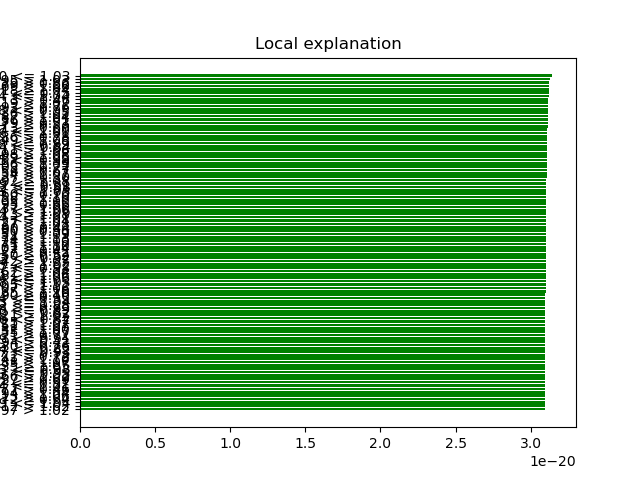
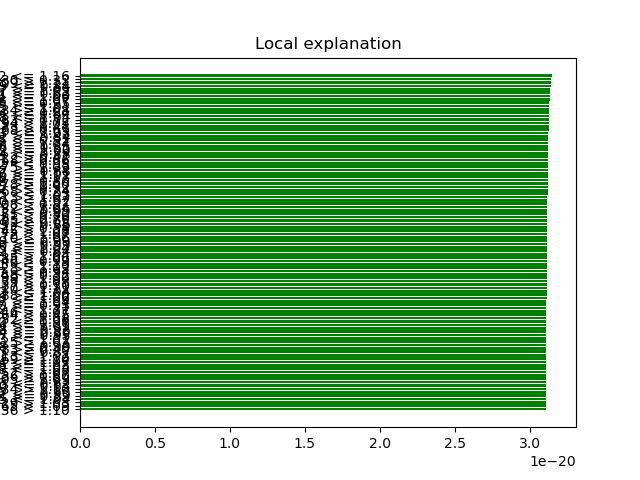
Parallelization implemented to compute the explainer and explanations

diff --git a/xAI/lime/kw_20_explanation_AE.html b/xAI/lime/kw_20_explanation_AE.html
@@ -37089,25 +37089,25 @@
 /***/ })
 /******/ ]);
 //# sourceMappingURL=bundle.js.map </script></head><body>
-        <div class="lime top_div" id="top_div693M1R41W04F4BX"></div>
+        <div class="lime top_div" id="top_divPRYQO4W5LQ1C0EL"></div>
         
         <script>
-        var top_div = d3.select('#top_div693M1R41W04F4BX').classed('lime top_div', true);
+        var top_div = d3.select('#top_divPRYQO4W5LQ1C0EL').classed('lime top_div', true);
         
         
                     var pp_div = top_div.append('div')
                                         .classed('lime predicted_value', true);
                     var pp_svg = pp_div.append('svg').style('width', '100%');
-                    var pp = new lime.PredictedValue(pp_svg, 41.43935775756836, 0.4013487696647644, 41.43935775756836);
+                    var pp = new lime.PredictedValue(pp_svg, 41.43935775756836, 0.3981606662273407, 41.43935775756836);
                     
         var exp_div;
             var exp = new lime.Explanation(["negative", "positive"]);
         
             exp_div = top_div.append('div').classed('lime explanation', true);
-            exp.show([["1.08 < 3032 <= 1.16", 3.151411732195672e-20], ["130 > 0.32", 3.143531690930084e-20], ["2109 > 1.11", 3.143413657675849e-20], ["999 <= 0.84", 3.143007359665648e-20], ["1.07 < 3197 <= 1.09", 3.137833626205386e-20], ["1001 <= 0.83", 3.1374821812128124e-20], ["1.03 < 3221 <= 1.06", 3.135704353972534e-20], ["1.04 < 3263 <= 1.07", 3.132406887577402e-20], ["0.90 < 815 <= 0.95", 3.1321705354703385e-20], ["3085 <= 1.01", 3.131619492025134e-20], ["2434 > 1.08", 3.130609807066562e-20], ["0.79 < 794 <= 0.84", 3.1301513931911596e-20], ["1608 <= 1.04", 3.128519091161721e-20], ["583 > 0.72", 3.1284768980507366e-20], ["3094 > 1.05", 3.127799652982868e-20], ["33 > 0.41", 3.1275653050442745e-20], ["468 > 0.69", 3.1264082182455615e-20], ["3233 <= 1.03", 3.124401881998194e-20], ["901 <= 0.84", 3.123974303444091e-20], ["0.87 < 1305 <= 0.91", 3.123900062568068e-20], ["1.01 < 3366 <= 1.04", 3.1234530421373096e-20], ["1066 <= 0.85", 3.123178005370284e-20], ["3572 <= 1.00", 3.123064765698015e-20], ["1154 <= 0.88", 3.122822284527272e-20], ["222 > 0.47", 3.122474745138044e-20], ["458 > 0.66", 3.121959791963295e-20], ["0.94 < 1122 <= 0.98", 3.121107077573404e-20], ["2475 > 1.03", 3.1210788865906096e-20], ["1087 <= 0.88", 3.1206613876917007e-20], ["1666 <= 1.01", 3.120255793379547e-20], ["1.06 < 3018 <= 1.17", 3.1202459412497515e-20], ["0.76 < 768 <= 0.80", 3.1199066131562616e-20], ["1578 > 1.00", 3.1197206500819e-20], ["0.87 < 825 <= 0.92", 3.119464628729898e-20], ["268 > 0.24", 3.119355060870413e-20], ["3325 <= 1.03", 3.119011212849675e-20], ["2713 > 1.07", 3.1188390057264433e-20], ["3120 <= 1.02", 3.1181870255023005e-20], ["1508 > 0.87", 3.117700148346298e-20], ["3532 > 1.04", 3.1175362945575484e-20], ["3581 <= 0.99", 3.1172526307717464e-20], ["671 > 0.80", 3.1172058274010894e-20], ["683 > 0.70", 3.1171354540900223e-20], ["685 > 0.65", 3.117042597187892e-20], ["879 <= 0.86", 3.116986624656751e-20], ["122 > 0.38", 3.116615566487045e-20], ["2245 > 1.08", 3.116504281252621e-20], ["2972 > 1.07", 3.116386886515956e-20], ["2310 > 1.06", 3.116363870008225e-20], ["3559 <= 0.99", 3.1161192902447714e-20], ["3580 <= 0.99", 3.116115594715172e-20], ["1.02 < 3135 <= 1.04", 3.115906921601232e-20], ["1012 <= 0.84", 3.115826819033717e-20], ["2513 > 1.04", 3.115317258550061e-20], ["2285 > 1.06", 3.1150622829175846e-20], ["3446 > 0.99", 3.114609396996373e-20], ["1.08 < 2921 <= 1.10", 3.1143050086476475e-20], ["1928 > 1.03", 3.1140789129115894e-20], ["0.88 < 787 <= 0.94", 3.113904482754047e-20], ["48 > 0.32", 3.113241714324736e-20], ["3499 > 1.00", 3.1131949661739484e-20], ["1959 > 1.03", 3.113092087400479e-20], ["37 > 0.30", 3.112792451609511e-20], ["2110 > 1.11", 3.112678240577264e-20], ["3213 <= 1.04", 3.1125785248532606e-20], ["3488 > 1.00", 3.112572918007122e-20], ["1.03 < 3240 <= 1.06", 3.112252780434383e-20], ["1.01 < 3357 <= 1.04", 3.1119941117419015e-20], ["0.88 < 980 <= 0.93", 3.111763531267703e-20], ["1.03 < 2862 <= 1.21", 3.1117167089284075e-20], ["2946 > 1.07", 3.111705663158061e-20], ["164 > 0.45", 3.111536210849571e-20], ["2952 > 1.08", 3.111507943118054e-20], ["0.96 < 3400 <= 0.98", 3.111420635160439e-20], ["0.98 < 3414 <= 1.01", 3.1112368729542606e-20], ["1518 <= 0.92", 3.111122111001753e-20], ["784 <= 0.80", 3.110778298393133e-20], ["1627 <= 0.93", 3.110739748589127e-20], ["0.98 < 3473 <= 1.01", 3.110623001291488e-20], ["3525 > 1.03", 3.110600723226064e-20], ["1058 <= 0.90", 3.110543033491315e-20], ["183 > 0.40", 3.110027617052812e-20], ["937 <= 0.87", 3.1098028988705884e-20], ["2013 > 1.02", 3.109699552225025e-20], ["2269 > 1.10", 3.1096583014382033e-20], ["1.05 < 2944 <= 1.07", 3.109468929726847e-20], ["1.01 < 3379 <= 1.03", 3.109407573650955e-20], ["1.07 < 2788 <= 1.08", 3.109291731729473e-20], ["2752 > 1.07", 3.109275359929593e-20], ["636 > 0.80", 3.109242759097667e-20], ["2903 > 1.09", 3.1089050320644815e-20], ["1173 <= 0.82", 3.108863004258506e-20], ["1430 <= 0.83", 3.1085720041387e-20], ["2034 > 1.10", 3.1084062077769864e-20], ["1092 <= 0.90", 3.1081596978281223e-20], ["1091 <= 0.89", 3.108124268678974e-20], ["3205 <= 1.04", 3.107968459241411e-20], ["3529 > 1.03", 3.107964005799557e-20], ["2265 > 1.09", 3.107952900699872e-20], ["2036 > 1.10", 3.107717212716936e-20]], 1, exp_div);
+            exp.show([["3702 <= 1.04", 0.5021782324285443], ["1266 <= 0.92", 0.4936909464056362], ["0.88 < 1184 <= 0.92", 0.49226597609205136], ["3329 <= 1.03", 0.4880003993276654], ["672 > 0.80", 0.4786419378374837], ["172 > 0.42", 0.47595939169777723], ["1.03 < 3247 <= 1.05", 0.47566961560214666], ["0.88 < 1219 <= 0.91", 0.47279007569125486], ["1.04 < 3269 <= 1.07", 0.4673059741511945], ["1057 <= 0.90", 0.4638433304812303], ["2357 > 1.11", 0.46310283129285845], ["1123 <= 0.93", 0.4514799785231599], ["1.01 < 3659 <= 1.04", 0.4477903831817919], ["0.84 < 982 <= 0.88", 0.4471753753088741], ["1904 > 1.02", 0.4452560038715307], ["2406 > 1.08", 0.4415739787460963], ["532 > 0.71", 0.4354413948770992], ["565 > 0.77", 0.43275286952533976], ["1.06 < 3216 <= 1.08", 0.4320610908018941], ["2887 <= 1.09", 0.4293731268749042], ["1518 <= 0.92", 0.4279542235212195], ["0.91 < 1037 <= 0.96", 0.4268693106588472], ["246 > 0.45", 0.4234512022500114], ["2020 > 1.09", 0.4232077776665919], ["2579 > 1.04", 0.42226396644292974], ["3261 <= 1.04", 0.4212133741041045], ["79 > 0.51", 0.4207482102573732], ["3626 <= 1.01", 0.41752190452802], ["3744 <= 1.04", 0.4173652687754923], ["2168 > 1.08", 0.41602435268188614], ["0.93 < 1576 <= 0.96", 0.41458572743509725], ["876 <= 0.88", 0.41190030489705265], ["1129 <= 0.91", 0.41130397582290157], ["3051 <= 0.99", 0.4102630355263475], ["1709 <= 0.93", 0.4095789801932695], ["937 <= 0.87", 0.40869058888320925], ["503 > 0.65", 0.4086783389540401], ["2221 > 1.07", 0.4050085457993009], ["3487 > 1.00", 0.4037468973908977], ["785 <= 0.82", 0.4001860918029761], ["0.69 < 547 <= 0.76", 0.39938630647100587], ["1229 <= 0.94", 0.39884217484408807], ["3768 <= 1.05", 0.3985398506456866], ["28 > 0.70", 0.39790083736824755], ["297 > 0.64", 0.39576649047831003], ["1.06 < 2930 <= 1.08", 0.39443358233447096], ["2288 > 1.07", 0.39394797211519367], ["2960 > 1.07", 0.39356806057636906], ["740 > 0.87", 0.39236467108620077], ["953 <= 0.85", 0.3913068682747573], ["0.68 < 390 <= 0.75", 0.38961808989166674], ["1818 > 1.04", 0.3884512733017262], ["543 > 0.75", 0.38818079771465097], ["3568 <= 0.99", 0.38813037255876487], ["177 > 0.44", 0.38546926807860765], ["2214 > 1.06", 0.38225161742585007], ["3623 <= 1.02", 0.3817640365608742], ["1486 > 0.78", 0.3791377977020291], ["63 > 0.42", 0.3785209299591826], ["3347 <= 1.07", 0.3772650048102914], ["1629 <= 0.90", 0.3766324777778223], ["1607 <= 1.03", 0.37552590650445744], ["1384 <= 0.84", 0.3753187040174478], ["2145 > 1.12", 0.37390651574778944], ["2358 > 1.10", 0.3737868656324147], ["1789 > 1.04", 0.3696553560872704], ["872 <= 0.88", 0.3694111941991312], ["864 <= 0.87", 0.36923623884144946], ["1246 <= 0.97", 0.35914953088603685], ["3493 > 0.99", 0.3590231140848388], ["3716 <= 1.02", 0.3589928610595982], ["1701 <= 0.96", 0.3588825545034018], ["474 > 0.63", 0.3584304947179286], ["2141 > 1.12", 0.35435442003554485], ["1926 > 1.03", 0.35128231274511873], ["25 > 0.50", 0.3470091502025958], ["2792 > 1.06", 0.34646482060288886], ["35 > 0.32", 0.34641296817188894], ["2133 > 1.12", 0.34543234526632216], ["2177 > 1.10", 0.3431019218865002], ["3529 > 1.03", 0.34279763964892207], ["2099 > 1.11", 0.34018867086779314], ["1652 <= 1.01", 0.33891613711671853], ["426 > 0.71", 0.33689440695614786], ["250 > 0.52", 0.3339794315230792], ["3632 <= 1.02", 0.3277782691001823], ["1.01 < 3658 <= 1.04", 0.32537606906294914], ["2767 > 1.09", 0.32222293455724393], ["1.08 < 3034 <= 1.16", 0.3221503198375697], ["2364 > 1.10", 0.32154108953201294], ["0.88 < 1086 <= 0.92", 0.3207013188460098], ["1803 > 1.04", 0.3191634867232154], ["1580 > 1.02", 0.30935063895213993], ["1595 <= 1.01", 0.3088443609596654], ["306 > 0.65", 0.30784055058380005], ["0.94 < 961 <= 0.99", 0.3056680507620121], ["2132 > 1.13", 0.30194625065567293], ["1062 <= 0.88", 0.2865128857212478], ["1406 <= 0.86", 0.2781232031445284], ["505 > 0.68", 0.23757462769392185]], 1, exp_div);
             
         var raw_div = top_div.append('div');
-            exp.show_raw_tabular([["3032", "1.13", 3.151411732195672e-20], ["130", "0.71", 3.143531690930084e-20], ["2109", "1.30", 3.143413657675849e-20], ["999", "0.84", 3.143007359665648e-20], ["3197", "1.08", 3.137833626205386e-20], ["1001", "0.81", 3.1374821812128124e-20], ["3221", "1.05", 3.135704353972534e-20], ["3263", "1.06", 3.132406887577402e-20], ["815", "0.92", 3.1321705354703385e-20], ["3085", "0.98", 3.131619492025134e-20], ["2434", "1.41", 3.130609807066562e-20], ["794", "0.79", 3.1301513931911596e-20], ["1608", "1.02", 3.128519091161721e-20], ["583", "0.81", 3.1284768980507366e-20], ["3094", "1.13", 3.127799652982868e-20], ["33", "476.86", 3.1275653050442745e-20], ["468", "0.83", 3.1264082182455615e-20], ["3233", "1.01", 3.124401881998194e-20], ["901", "0.78", 3.123974303444091e-20], ["1305", "0.89", 3.123900062568068e-20], ["3366", "1.02", 3.1234530421373096e-20], ["1066", "0.76", 3.123178005370284e-20], ["3572", "0.95", 3.123064765698015e-20], ["1154", "0.86", 3.122822284527272e-20], ["222", "0.83", 3.122474745138044e-20], ["458", "0.90", 3.121959791963295e-20], ["1122", "0.95", 3.121107077573404e-20], ["2475", "1.12", 3.1210788865906096e-20], ["1087", "0.87", 3.1206613876917007e-20], ["1666", "0.93", 3.120255793379547e-20], ["3018", "1.07", 3.1202459412497515e-20], ["768", "0.76", 3.1199066131562616e-20], ["1578", "1.02", 3.1197206500819e-20], ["825", "0.88", 3.119464628729898e-20], ["268", "0.75", 3.119355060870413e-20], ["3325", "1.00", 3.119011212849675e-20], ["2713", "1.15", 3.1188390057264433e-20], ["3120", "0.98", 3.1181870255023005e-20], ["1508", "0.97", 3.117700148346298e-20], ["3532", "1.09", 3.1175362945575484e-20], ["3581", "0.97", 3.1172526307717464e-20], ["671", "0.91", 3.1172058274010894e-20], ["683", "0.92", 3.1171354540900223e-20], ["685", "0.83", 3.117042597187892e-20], ["879", "0.71", 3.116986624656751e-20], ["122", "0.56", 3.116615566487045e-20], ["2245", "1.37", 3.116504281252621e-20], ["2972", "1.08", 3.116386886515956e-20], ["2310", "1.40", 3.116363870008225e-20], ["3559", "0.97", 3.1161192902447714e-20], ["3580", "0.97", 3.116115594715172e-20], ["3135", "1.02", 3.115906921601232e-20], ["1012", "0.72", 3.115826819033717e-20], ["2513", "1.35", 3.115317258550061e-20], ["2285", "1.42", 3.1150622829175846e-20], ["3446", "1.00", 3.114609396996373e-20], ["2921", "1.09", 3.1143050086476475e-20], ["1928", "1.22", 3.1140789129115894e-20], ["787", "0.89", 3.113904482754047e-20], ["48", "0.51", 3.113241714324736e-20], ["3499", "1.07", 3.1131949661739484e-20], ["1959", "1.17", 3.113092087400479e-20], ["37", "0.69", 3.112792451609511e-20], ["2110", "1.29", 3.112678240577264e-20], ["3213", "1.02", 3.1125785248532606e-20], ["3488", "1.03", 3.112572918007122e-20], ["3240", "1.04", 3.112252780434383e-20], ["3357", "1.02", 3.1119941117419015e-20], ["980", "0.91", 3.111763531267703e-20], ["2862", "1.08", 3.1117167089284075e-20], ["2946", "1.09", 3.111705663158061e-20], ["164", "0.76", 3.111536210849571e-20], ["2952", "1.08", 3.111507943118054e-20], ["3400", "0.98", 3.111420635160439e-20], ["3414", "1.00", 3.1112368729542606e-20], ["1518", "0.87", 3.111122111001753e-20], ["784", "0.73", 3.110778298393133e-20], ["1627", "0.87", 3.110739748589127e-20], ["3473", "0.99", 3.110623001291488e-20], ["3525", "1.08", 3.110600723226064e-20], ["1058", "0.87", 3.110543033491315e-20], ["183", "0.71", 3.110027617052812e-20], ["937", "0.84", 3.1098028988705884e-20], ["2013", "1.48", 3.109699552225025e-20], ["2269", "1.41", 3.1096583014382033e-20], ["2944", "1.07", 3.109468929726847e-20], ["3379", "1.02", 3.109407573650955e-20], ["2788", "1.08", 3.109291731729473e-20], ["2752", "1.11", 3.109275359929593e-20], ["636", "0.80", 3.109242759097667e-20], ["2903", "1.10", 3.1089050320644815e-20], ["1173", "0.75", 3.108863004258506e-20], ["1430", "0.79", 3.1085720041387e-20], ["2034", "1.36", 3.1084062077769864e-20], ["1092", "0.87", 3.1081596978281223e-20], ["1091", "0.85", 3.108124268678974e-20], ["3205", "1.03", 3.107968459241411e-20], ["3529", "1.09", 3.107964005799557e-20], ["2265", "1.38", 3.107952900699872e-20], ["2036", "1.15", 3.107717212716936e-20]], 1, raw_div);
+            exp.show_raw_tabular([["3702", "0.99", 0.5021782324285443], ["1266", "0.90", 0.4936909464056362], ["1184", "0.90", 0.49226597609205136], ["3329", "0.97", 0.4880003993276654], ["672", "0.84", 0.4786419378374837], ["172", "0.84", 0.47595939169777723], ["3247", "1.05", 0.47566961560214666], ["1219", "0.89", 0.47279007569125486], ["3269", "1.06", 0.4673059741511945], ["1057", "0.89", 0.4638433304812303], ["2357", "1.44", 0.46310283129285845], ["1123", "0.93", 0.4514799785231599], ["3659", "1.02", 0.4477903831817919], ["982", "0.88", 0.4471753753088741], ["1904", "1.41", 0.4452560038715307], ["2406", "1.36", 0.4415739787460963], ["532", "0.86", 0.4354413948770992], ["565", "0.86", 0.43275286952533976], ["3216", "1.08", 0.4320610908018941], ["2887", "1.08", 0.4293731268749042], ["1518", "0.87", 0.4279542235212195], ["1037", "0.92", 0.4268693106588472], ["246", "0.66", 0.4234512022500114], ["2020", "1.38", 0.4232077776665919], ["2579", "1.26", 0.42226396644292974], ["3261", "1.02", 0.4212133741041045], ["79", "0.58", 0.4207482102573732], ["3626", "0.98", 0.41752190452802], ["3744", "0.95", 0.4173652687754923], ["2168", "1.45", 0.41602435268188614], ["1576", "0.93", 0.41458572743509725], ["876", "0.86", 0.41190030489705265], ["1129", "0.75", 0.41130397582290157], ["3051", "0.99", 0.4102630355263475], ["1709", "0.85", 0.4095789801932695], ["937", "0.84", 0.40869058888320925], ["503", "0.78", 0.4086783389540401], ["2221", "1.50", 0.4050085457993009], ["3487", "1.02", 0.4037468973908977], ["785", "0.78", 0.4001860918029761], ["547", "0.74", 0.39938630647100587], ["1229", "0.94", 0.39884217484408807], ["3768", "0.92", 0.3985398506456866], ["28", "1237.68", 0.39790083736824755], ["297", "0.75", 0.39576649047831003], ["2930", "1.08", 0.39443358233447096], ["2288", "1.39", 0.39394797211519367], ["2960", "1.09", 0.39356806057636906], ["740", "0.92", 0.39236467108620077], ["953", "0.81", 0.3913068682747573], ["390", "0.73", 0.38961808989166674], ["1818", "1.17", 0.3884512733017262], ["543", "0.90", 0.38818079771465097], ["3568", "0.99", 0.38813037255876487], ["177", "0.55", 0.38546926807860765], ["2214", "1.37", 0.38225161742585007], ["3623", "1.00", 0.3817640365608742], ["1486", "0.95", 0.3791377977020291], ["63", "0.74", 0.3785209299591826], ["3347", "1.03", 0.3772650048102914], ["1629", "0.85", 0.3766324777778223], ["1607", "1.00", 0.37552590650445744], ["1384", "0.78", 0.3753187040174478], ["2145", "1.19", 0.37390651574778944], ["2358", "1.44", 0.3737868656324147], ["1789", "1.48", 0.3696553560872704], ["872", "0.72", 0.3694111941991312], ["864", "0.87", 0.36923623884144946], ["1246", "0.75", 0.35914953088603685], ["3493", "1.01", 0.3590231140848388], ["3716", "0.97", 0.3589928610595982], ["1701", "0.95", 0.3588825545034018], ["474", "0.85", 0.3584304947179286], ["2141", "1.13", 0.35435442003554485], ["1926", "1.18", 0.35128231274511873], ["25", "911.57", 0.3470091502025958], ["2792", "1.09", 0.34646482060288886], ["35", "97.17", 0.34641296817188894], ["2133", "1.39", 0.34543234526632216], ["2177", "1.48", 0.3431019218865002], ["3529", "1.09", 0.34279763964892207], ["2099", "1.29", 0.34018867086779314], ["1652", "0.96", 0.33891613711671853], ["426", "0.89", 0.33689440695614786], ["250", "0.73", 0.3339794315230792], ["3632", "1.01", 0.3277782691001823], ["3658", "1.04", 0.32537606906294914], ["2767", "1.13", 0.32222293455724393], ["3034", "1.11", 0.3221503198375697], ["2364", "1.32", 0.32154108953201294], ["1086", "0.89", 0.3207013188460098], ["1803", "1.27", 0.3191634867232154], ["1580", "1.11", 0.30935063895213993], ["1595", "0.99", 0.3088443609596654], ["306", "0.81", 0.30784055058380005], ["961", "0.94", 0.3056680507620121], ["2132", "1.41", 0.30194625065567293], ["1062", "0.77", 0.2865128857212478], ["1406", "0.84", 0.2781232031445284], ["505", "0.81", 0.23757462769392185]], 1, raw_div);
         
         </script>
         </body></html>

diff --git a/xAI/lime/kw_10_explanation_AE.html b/xAI/lime/kw_10_explanation_AE.html
@@ -37089,25 +37089,25 @@
 /***/ })
 /******/ ]);
 //# sourceMappingURL=bundle.js.map </script></head><body>
-        <div class="lime top_div" id="top_divBQ2622KMF335MQZ"></div>
+        <div class="lime top_div" id="top_divJ48RUFMZFBI95KR"></div>
         
         <script>
-        var top_div = d3.select('#top_divBQ2622KMF335MQZ').classed('lime top_div', true);
+        var top_div = d3.select('#top_divJ48RUFMZFBI95KR').classed('lime top_div', true);
         
         
                     var pp_div = top_div.append('div')
                                         .classed('lime predicted_value', true);
                     var pp_svg = pp_div.append('svg').style('width', '100%');
-                    var pp = new lime.PredictedValue(pp_svg, 41.43935775756836, 0.42717108130455017, 41.43935775756836);
+                    var pp = new lime.PredictedValue(pp_svg, 41.43935775756836, 0.41425377130508423, 41.43935775756836);
                     
         var exp_div;
             var exp = new lime.Explanation(["negative", "positive"]);
         
             exp_div = top_div.append('div').classed('lime explanation', true);
-            exp.show([["1.05 < 2915 <= 1.07", 0.08573321228892516], ["1754 > 1.03", 0.08567686268680048], ["3067 > 1.06", 0.085595903956956], ["1183 <= 0.89", 0.0855783191043462], ["0.68 < 390 <= 0.75", 0.08546039115463495], ["1846 > 1.07", 0.0854541130933373], ["0.70 < 546 <= 0.77", 0.0853848511164099], ["277 > 0.46", 0.0853774492578212], ["109 > 0.48", 0.08534143419510157], ["1462 <= 0.86", 0.0853391082870276], ["3452 > 0.99", 0.08524024129017335], ["2425 > 1.07", 0.08521106879045968], ["1786 > 1.03", 0.08519797933902566], ["519 > 0.73", 0.08518454921038326], ["0.99 < 1649 <= 1.01", 0.08513142066481738], ["683 > 0.70", 0.08513029879878423], ["2728 > 1.09", 0.08505435978414755], ["2246 > 1.08", 0.08505206615109225], ["2520 > 1.00", 0.08504851236070562], ["0.98 < 3595 <= 1.01", 0.08503510656683527], ["0.90 < 1186 <= 0.94", 0.08492329566288417], ["3591 > 1.04", 0.0849124535654057], ["3800 <= 1.05", 0.0848928360071923], ["152 > 0.43", 0.0848779039350655], ["0.90 < 822 <= 0.95", 0.08481513998615064], ["2721 > 1.07", 0.0848063334989344], ["702 > 0.79", 0.08478450881165042], ["2373 > 1.13", 0.08476719526943773], ["1947 > 1.05", 0.08476713294350598], ["2768 > 1.10", 0.08475023989690203], ["85 > 0.54", 0.08474373636212575], ["2970 > 1.06", 0.08473083890407937], ["0.93 < 1349 <= 0.97", 0.08471539843467035], ["154 > 0.44", 0.08469277159119704], ["1283 > 0.91", 0.08468454246982436], ["2100 > 1.11", 0.0846753881459657], ["1236 <= 0.92", 0.08466288797895977], ["1738 <= 0.99", 0.08465679994951252], ["3560 <= 0.99", 0.08462796765075975], ["1673 > 1.01", 0.08462241663499771], ["1082 <= 0.91", 0.0846182442349903], ["1584 > 1.01", 0.08461783718937779], ["2932 > 1.07", 0.08461477923304161], ["2753 > 1.07", 0.08460281642735333], ["2358 > 1.10", 0.08459249616889813], ["2794 > 1.04", 0.0845876413137548], ["2145 > 1.12", 0.08458491919634592], ["2459 > 1.04", 0.08458085767979334], ["0.83 < 951 <= 0.87", 0.08456389581994476], ["1504 > 0.94", 0.08456378614022923], ["3569 <= 0.99", 0.08455681271630333], ["106 > 0.49", 0.0845335180631297], ["3031 > 1.15", 0.08451552793773437], ["1799 > 1.04", 0.08450934300563002], ["652 > 0.76", 0.08447135839627279], ["979 <= 0.85", 0.08446170568424934], ["2673 > 1.08", 0.0844564039271634], ["1942 > 1.04", 0.08444986392608861], ["1956 > 1.05", 0.08441194623277183], ["535 > 0.71", 0.08440514356359459], ["3629 <= 1.01", 0.08435741041329597], ["0.87 < 1157 <= 0.90", 0.0843565829398265], ["241 > 0.38", 0.08434002114707077], ["25 > 0.50", 0.08433128996784214], ["3038 > 1.08", 0.08431345156611808], ["123 > 0.38", 0.08430734511350371], ["491 > 0.69", 0.08429847921402119], ["680 > 0.79", 0.08429128152975786], ["1771 > 1.04", 0.08426699053556541], ["2448 > 1.09", 0.08426223049771088], ["1.03 < 2614 <= 1.05", 0.08418739422047013], ["1.06 < 3306 <= 1.09", 0.08418601318865732], ["779 <= 0.83", 0.08415523226285679], ["3468 > 1.00", 0.08414400851548379], ["1.03 < 3639 <= 1.07", 0.08406866489494881], ["1879 > 1.06", 0.08403397335812395], ["101 > 0.40", 0.08402360056525726], ["0.93 < 1208 <= 0.97", 0.08398498993039279], ["3002 > 1.06", 0.08395514388276554], ["906 <= 0.86", 0.08394561474841793], ["151 > 0.43", 0.08389798216299255], ["29 > 0.71", 0.08388992126487725], ["0.88 < 1086 <= 0.92", 0.08387373742655209], ["2004 > 1.04", 0.08386888552737456], ["444 > 0.65", 0.08384790985042723], ["1.04 < 3272 <= 1.07", 0.08378504763298815], ["2424 > 1.07", 0.08371759950177377], ["26 > 0.58", 0.0837090240477421], ["1.01 < 3372 <= 1.04", 0.08369495033347422], ["1520 <= 0.93", 0.083687467480948], ["3191 <= 1.04", 0.08365089902266915], ["478 > 0.65", 0.08364639119238232], ["1804 > 1.03", 0.08363616461556554], ["1602 <= 0.97", 0.08361221493607505], ["2343 <= 1.08", 0.08350152494671252], ["625 > 0.68", 0.08338750047234475], ["0.97 < 1049 <= 1.01", 0.08330529701843713], ["0.81 < 839 <= 0.86", 0.08324629153783857], ["1012 <= 0.84", 0.08322293627833255], ["141 > 0.32", 0.08225433973012039]], 1, exp_div);
+            exp.show([["0.87 < 1321 <= 0.90", 0.08597026558276208], ["1887 > 1.01", 0.08575719543761115], ["1057 <= 0.90", 0.08571059414696088], ["1440 > 0.92", 0.08569172249983488], ["834 <= 0.75", 0.08564849834912361], ["1249 <= 0.98", 0.08564308782916509], ["3195 <= 1.04", 0.08549987083562265], ["2986 > 1.06", 0.08549407127332653], ["201 > 0.50", 0.0854652276382011], ["1253 <= 0.98", 0.08546081568400044], ["1.00 < 3377 <= 1.03", 0.08539027702604908], ["2509 > 1.06", 0.08535731778065014], ["2179 > 1.09", 0.0853541640420677], ["7 > 0.37", 0.08531630542917693], ["2347 > 1.12", 0.08529536863678176], ["1713 <= 0.97", 0.08527274518002996], ["1551 > 0.98", 0.0852499749487949], ["1245 <= 0.96", 0.08510683128571128], ["2080 > 1.07", 0.08509845126712884], ["1922 > 1.03", 0.08502270208983313], ["66 > 0.42", 0.08500434058137477], ["2763 > 1.09", 0.08496784418848356], ["2826 > 1.10", 0.08495180848157295], ["1.03 < 2597 <= 1.05", 0.08494136683141452], ["3013 > 1.08", 0.08493907150622602], ["30 > 0.68", 0.08493780472659739], ["93 > 0.43", 0.08492446792587219], ["3613 <= 1.01", 0.0849108412540214], ["1.03 < 2872 <= 1.06", 0.08485079050713303], ["2286 > 1.06", 0.08483569971352004], ["2064 > 1.08", 0.08480494827381221], ["0.92 < 1347 <= 0.97", 0.08480164050340265], ["51 > 0.33", 0.08479777159369199], ["669 > 0.82", 0.0847842977056165], ["1279 <= 0.90", 0.08478093650651669], ["2649 > 1.06", 0.08475310782407611], ["1264 <= 0.93", 0.0847486789725193], ["2628 > 1.07", 0.08471368360356585], ["3452 > 0.99", 0.08471221604218117], ["714 > 0.84", 0.08471018893947116], ["1.02 < 2616 <= 1.04", 0.0847044204784612], ["2609 > 1.05", 0.0847017012616186], ["2344 > 1.12", 0.08469413140403942], ["924 <= 0.92", 0.08467910168260084], ["2961 > 1.06", 0.08465126723766019], ["184 > 0.40", 0.08463598168023266], ["292 > 0.65", 0.08462783150016129], ["2689 > 1.09", 0.08462667339485803], ["1457 <= 0.86", 0.08456951491193468], ["3003 > 1.06", 0.08455357139445135], ["2219 > 1.06", 0.08453601071443685], ["2684 > 1.08", 0.0845098644857554], ["1780 > 1.00", 0.0844973703027912], ["2701 > 1.07", 0.08447903311299819], ["1837 > 1.05", 0.08445767001291825], ["177 > 0.44", 0.08445110825409978], ["2979 > 1.06", 0.08442451695880822], ["3525 > 1.03", 0.08440567147102752], ["1687 <= 1.02", 0.08439814107974995], ["0.63 < 440 <= 0.72", 0.08438878921447122], ["2479 > 1.05", 0.08436160348415736], ["3001 > 1.05", 0.08434311651984144], ["33 > 0.41", 0.08434238298171728], ["1.01 < 3385 <= 1.04", 0.08433902417161838], ["776 <= 0.83", 0.08427678985344426], ["1.02 < 3176 <= 1.05", 0.0842581123418917], ["1327 <= 0.87", 0.08421728096315145], ["902 <= 0.84", 0.08420682527800243], ["933 <= 0.90", 0.0841911095033964], ["3128 > 1.07", 0.08414490085449029], ["3110 > 1.06", 0.08411333179090837], ["880 <= 0.85", 0.0841079864873806], ["23 > 0.37", 0.08410365706079544], ["79 > 0.51", 0.08410218968138061], ["3625 <= 1.01", 0.08409686826899031], ["1118 <= 0.94", 0.0840481423896612], ["1928 > 1.03", 0.08404178127132776], ["1.03 < 3304 <= 1.06", 0.08403238957539416], ["1734 > 1.02", 0.08402984040839553], ["3702 <= 1.04", 0.08401837702338819], ["2198 > 0.88", 0.0839878985595922], ["2717 > 1.07", 0.08394910506835063], ["1359 <= 0.93", 0.08394136319509157], ["0.80 < 749 <= 0.85", 0.0839356026512864], ["2116 <= 1.07", 0.08384557870985591], ["155 > 0.43", 0.08383104685239609], ["795 <= 0.79", 0.08380874858351514], ["3030 > 1.13", 0.08380036662116555], ["2022 > 1.11", 0.0837988845108655], ["32 > 0.50", 0.08379257321076929], ["3028 > 1.08", 0.08373151386259399], ["501 > 0.64", 0.08366404189292194], ["203 > 0.49", 0.08351069447724299], ["2748 > 1.09", 0.08344796502822509], ["2436 > 1.07", 0.08338699017281065], ["2388 > 1.09", 0.08328723099729304], ["28 > 0.70", 0.0830609533597653], ["265 > 0.33", 0.08282436798166277], ["682 > 0.74", 0.08257708815828303], ["1493 > 0.90", 0.08242053746442203]], 1, exp_div);
             
         var raw_div = top_div.append('div');
-            exp.show_raw_tabular([["2915", "1.05", 0.08573321228892516], ["1754", "1.43", 0.08567686268680048], ["3067", "1.08", 0.085595903956956], ["1183", "0.83", 0.0855783191043462], ["390", "0.73", 0.08546039115463495], ["1846", "1.43", 0.0854541130933373], ["546", "0.75", 0.0853848511164099], ["277", "0.76", 0.0853774492578212], ["109", "0.55", 0.08534143419510157], ["1462", "0.72", 0.0853391082870276], ["3452", "1.03", 0.08524024129017335], ["2425", "1.27", 0.08521106879045968], ["1786", "1.39", 0.08519797933902566], ["519", "0.96", 0.08518454921038326], ["1649", "0.99", 0.08513142066481738], ["683", "0.92", 0.08513029879878423], ["2728", "1.20", 0.08505435978414755], ["2246", "1.39", 0.08505206615109225], ["2520", "1.07", 0.08504851236070562], ["3595", "0.99", 0.08503510656683527], ["1186", "0.94", 0.08492329566288417], ["3591", "1.17", 0.0849124535654057], ["3800", "0.93", 0.0848928360071923], ["152", "0.73", 0.0848779039350655], ["822", "0.93", 0.08481513998615064], ["2721", "1.15", 0.0848063334989344], ["702", "0.90", 0.08478450881165042], ["2373", "1.36", 0.08476719526943773], ["1947", "1.47", 0.08476713294350598], ["2768", "1.14", 0.08475023989690203], ["85", "0.59", 0.08474373636212575], ["2970", "1.11", 0.08473083890407937], ["1349", "0.93", 0.08471539843467035], ["154", "0.63", 0.08469277159119704], ["1283", "0.92", 0.08468454246982436], ["2100", "1.39", 0.0846753881459657], ["1236", "0.89", 0.08466288797895977], ["1738", "0.92", 0.08465679994951252], ["3560", "0.95", 0.08462796765075975], ["1673", "1.05", 0.08462241663499771], ["1082", "0.83", 0.0846182442349903], ["1584", "1.05", 0.08461783718937779], ["2932", "1.09", 0.08461477923304161], ["2753", "1.10", 0.08460281642735333], ["2358", "1.44", 0.08459249616889813], ["2794", "1.08", 0.0845876413137548], ["2145", "1.19", 0.08458491919634592], ["2459", "1.43", 0.08458085767979334], ["951", "0.86", 0.08456389581994476], ["1504", "0.95", 0.08456378614022923], ["3569", "0.98", 0.08455681271630333], ["106", "0.66", 0.0845335180631297], ["3031", "1.20", 0.08451552793773437], ["1799", "1.43", 0.08450934300563002], ["652", "0.77", 0.08447135839627279], ["979", "0.83", 0.08446170568424934], ["2673", "1.24", 0.0844564039271634], ["1942", "1.44", 0.08444986392608861], ["1956", "1.53", 0.08441194623277183], ["535", "0.87", 0.08440514356359459], ["3629", "0.99", 0.08435741041329597], ["1157", "0.89", 0.0843565829398265], ["241", "0.66", 0.08434002114707077], ["25", "911.57", 0.08433128996784214], ["3038", "1.08", 0.08431345156611808], ["123", "0.58", 0.08430734511350371], ["491", "0.81", 0.08429847921402119], ["680", "0.90", 0.08429128152975786], ["1771", "1.52", 0.08426699053556541], ["2448", "1.46", 0.08426223049771088], ["2614", "1.04", 0.08418739422047013], ["3306", "1.06", 0.08418601318865732], ["779", "0.71", 0.08415523226285679], ["3468", "1.01", 0.08414400851548379], ["3639", "1.05", 0.08406866489494881], ["1879", "1.44", 0.08403397335812395], ["101", "0.61", 0.08402360056525726], ["1208", "0.96", 0.08398498993039279], ["3002", "1.08", 0.08395514388276554], ["906", "0.78", 0.08394561474841793], ["151", "0.73", 0.08389798216299255], ["29", "1236.82", 0.08388992126487725], ["1086", "0.89", 0.08387373742655209], ["2004", "1.46", 0.08386888552737456], ["444", "0.77", 0.08384790985042723], ["3272", "1.06", 0.08378504763298815], ["2424", "1.22", 0.08371759950177377], ["26", "1020.37", 0.0837090240477421], ["3372", "1.04", 0.08369495033347422], ["1520", "0.86", 0.083687467480948], ["3191", "0.89", 0.08365089902266915], ["478", "0.83", 0.08364639119238232], ["1804", "1.34", 0.08363616461556554], ["1602", "0.96", 0.08361221493607505], ["2343", "1.06", 0.08350152494671252], ["625", "0.91", 0.08338750047234475], ["1049", "0.99", 0.08330529701843713], ["839", "0.83", 0.08324629153783857], ["1012", "0.72", 0.08322293627833255], ["141", "0.81", 0.08225433973012039]], 1, raw_div);
+            exp.show_raw_tabular([["1321", "0.90", 0.08597026558276208], ["1887", "1.17", 0.08575719543761115], ["1057", "0.89", 0.08571059414696088], ["1440", "0.93", 0.08569172249983488], ["834", "0.72", 0.08564849834912361], ["1249", "0.91", 0.08564308782916509], ["3195", "1.01", 0.08549987083562265], ["2986", "1.09", 0.08549407127332653], ["201", "0.77", 0.0854652276382011], ["1253", "0.82", 0.08546081568400044], ["3377", "1.02", 0.08539027702604908], ["2509", "1.34", 0.08535731778065014], ["2179", "1.37", 0.0853541640420677], ["7", "0.67", 0.08531630542917693], ["2347", "1.45", 0.08529536863678176], ["1713", "0.97", 0.08527274518002996], ["1551", "1.15", 0.0852499749487949], ["1245", "0.71", 0.08510683128571128], ["2080", "1.46", 0.08509845126712884], ["1922", "1.45", 0.08502270208983313], ["66", "0.64", 0.08500434058137477], ["2763", "1.13", 0.08496784418848356], ["2826", "1.10", 0.08495180848157295], ["2597", "1.05", 0.08494136683141452], ["3013", "1.08", 0.08493907150622602], ["30", "1046.56", 0.08493780472659739], ["93", "0.65", 0.08492446792587219], ["3613", "0.98", 0.0849108412540214], ["2872", "1.04", 0.08485079050713303], ["2286", "1.41", 0.08483569971352004], ["2064", "1.49", 0.08480494827381221], ["1347", "0.94", 0.08480164050340265], ["51", "0.65", 0.08479777159369199], ["669", "0.93", 0.0847842977056165], ["1279", "0.79", 0.08478093650651669], ["2649", "1.34", 0.08475310782407611], ["1264", "0.77", 0.0847486789725193], ["2628", "1.44", 0.08471368360356585], ["3452", "1.03", 0.08471221604218117], ["714", "0.85", 0.08471018893947116], ["2616", "1.02", 0.0847044204784612], ["2609", "1.21", 0.0847017012616186], ["2344", "1.17", 0.08469413140403942], ["924", "0.85", 0.08467910168260084], ["2961", "1.09", 0.08465126723766019], ["184", "0.64", 0.08463598168023266], ["292", "0.78", 0.08462783150016129], ["2689", "1.37", 0.08462667339485803], ["1457", "0.83", 0.08456951491193468], ["3003", "1.10", 0.08455357139445135], ["2219", "1.46", 0.08453601071443685], ["2684", "1.40", 0.0845098644857554], ["1780", "1.38", 0.0844973703027912], ["2701", "1.32", 0.08447903311299819], ["1837", "1.42", 0.08445767001291825], ["177", "0.55", 0.08445110825409978], ["2979", "1.07", 0.08442451695880822], ["3525", "1.08", 0.08440567147102752], ["1687", "0.98", 0.08439814107974995], ["440", "0.71", 0.08438878921447122], ["2479", "1.37", 0.08436160348415736], ["3001", "1.06", 0.08434311651984144], ["33", "476.86", 0.08434238298171728], ["3385", "1.03", 0.08433902417161838], ["776", "0.67", 0.08427678985344426], ["3176", "1.03", 0.0842581123418917], ["1327", "0.79", 0.08421728096315145], ["902", "0.82", 0.08420682527800243], ["933", "0.76", 0.0841911095033964], ["3128", "1.08", 0.08414490085449029], ["3110", "1.08", 0.08411333179090837], ["880", "0.68", 0.0841079864873806], ["23", "693.94", 0.08410365706079544], ["79", "0.58", 0.08410218968138061], ["3625", "0.98", 0.08409686826899031], ["1118", "0.71", 0.0840481423896612], ["1928", "1.22", 0.08404178127132776], ["3304", "1.05", 0.08403238957539416], ["1734", "1.02", 0.08402984040839553], ["3702", "0.99", 0.08401837702338819], ["2198", "1.16", 0.0839878985595922], ["2717", "1.20", 0.08394910506835063], ["1359", "0.69", 0.08394136319509157], ["749", "0.84", 0.0839356026512864], ["2116", "0.90", 0.08384557870985591], ["155", "0.65", 0.08383104685239609], ["795", "0.76", 0.08380874858351514], ["3030", "1.22", 0.08380036662116555], ["2022", "1.31", 0.0837988845108655], ["32", "666.55", 0.08379257321076929], ["3028", "1.11", 0.08373151386259399], ["501", "0.84", 0.08366404189292194], ["203", "0.70", 0.08351069447724299], ["2748", "1.21", 0.08344796502822509], ["2436", "1.21", 0.08338699017281065], ["2388", "1.44", 0.08328723099729304], ["28", "1237.68", 0.0830609533597653], ["265", "0.80", 0.08282436798166277], ["682", "0.91", 0.08257708815828303], ["1493", "0.94", 0.08242053746442203]], 1, raw_div);
         
         </script>
         </body></html>

diff --git a/xAI/lime/lime_spectra.py b/xAI/lime/lime_spectra.py
@@ -3,11 +3,17 @@
 import time
 
 import csv
+from joblib import Parallel, delayed
+import matplotlib
+matplotlib.use('Agg')
 import matplotlib.pyplot as plt
+import multiprocessing
 import numpy as np
 import lime
 import lime.lime_tabular
 from tensorflow.keras.models import load_model
+
+from lib_lime import explain
 
 ti = time.time()
 ################################################################################
@@ -27,37 +33,53 @@ pred = AE.predict(spec)
 # Selecting top outliers for explanations
 mse_score = np.square(pred-spec).mean(axis=1)
 max_id = np.argmax(mse_score)
-print(max_id)
 
-# Creating explainers
+print(f'The id for the top MSE outlier is {max_id}')
 
-list_file = open('explanations_list.csv', 'w', newline='\n')
 k_widths = [5, 10, 20, 38, 50, 75, 100, 250, 500, 1_000]
-for kernel_width in k_widths:
 
-    print(f'Creating explainer...')
-    explainer = lime.lime_tabular.LimeTabularExplainer(training_data=spec,
-                mode='regression', training_labels = spec,
-                kernel_width=kernel_width, verbose=True)
+n_cores = multiprocessing.cpu_count()
 
-    # Generating an explanation
-    print(f'Generating explanation...')
-    exp = explainer.explain_instance(spec[max_id, :], AE.predict,
-          num_features=100)
+if __name__ == "__main__":
 
-    print(f'Saving explanation as html')
-    exp.save_to_file(file_path=f'./kw_{kernel_width}_explanation_AE.html')
+# Parallelization
 
-    # explanation as list
-    exp_list = exp.as_list()
-    wr = csv.writer(list_file, quoting=csv.QUOTE_ALL)
-    wr.writerow(exp_list)
-    
-    # explanation as pyplot figure
-    exp_fig = exp.as_pyplot_figure()
-    exp_fig.savefig(f'./kw_{kernel_width}_explanation_AE.png')
+    explanations_csv = open('explanations_list_p.csv', 'w', newline='\n')
 
-list_file.close()
+    explainers_list = Parallel(n_jobs=n_cores)(delayed(explain)
+    (kernel_width=kernel_width, training_data=spec, training_labels=spec,
+    data_row = spec[max_id, :], predict_fn=AE.predict, num_features=100,
+    file = explanations_csv) for kernel_width in k_widths)
+
+    explanations_csv.close()
+
+# for kernel_width in k_widths:
+#
+#     print(f'Creating explainer...')
+#     explainer = lime.lime_tabular.LimeTabularExplainer(training_data=spec,
+#                 mode='regression', training_labels = spec,
+#                 kernel_width=kernel_width, verbose=True)
+#
+#     # Generating an explanation
+#     print(f'Generating explanation...')
+#     exp = explainer.explain_instance(spec[max_id, :], AE.predict,
+#           num_features=100)
+#
+#     print(f'Saving explanation as html')
+#     exp.save_to_file(file_path=f'./kw_{kernel_width}_explanation_AE.html')
+#
+#     # explanation as list
+#     exp_list = exp.as_list()
+#     wr = csv.writer(list_file, quoting=csv.QUOTE_ALL)
+#     wr.writerow(exp_list)
+#
+#     # explanation as pyplot figure
+#     exp_fig = exp.as_pyplot_figure()
+#     exp_fig.savefig(f'./kw_{kernel_width}_explanation_AE.png')
+#
+# list_file.close()
+
+
 # I must use the trained model to add a layer that computes the outlier
 # score and that would be a new model which I want to explain
 # outlier_exp = explainer.explain_instance(spec[0, :], np,

diff --git a/xAI/lime/lib_lime.py b/xAI/lime/lib_lime.py
@@ -1,4 +1,39 @@
+import csv
+from joblib import Parallel, delayed
+import matplotlib
+matplotlib.use('Agg')
+import matplotlib.pyplot as plt
+import multiprocessing
+import numpy as np
 import lime
 import lime.lime_tabular
-import matplotlib.pyplot as plt
-import numpy as np
+from tensorflow.keras.models import load_model
+
+def explain(kernel_width, training_data, training_labels, data_row,
+                predict_fn, num_features, file):
+
+    print(f'Explainer with kernel width: {kernel_width}')
+
+    explainer = lime.lime_tabular.LimeTabularExplainer(
+    training_data=training_data, mode='regression',
+    raining_labels = training_labels, kernel_width=kernel_width, verbose=True)
+
+    print(f'Computing explanations for the top MSE outlier')
+    exp = explainer.explain_instance(data_row=data_row, predict_fn=predict_fn,
+    num_features=num_features)
+
+    print(f'Saving explanation as html')
+    exp.save_to_file(file_path=f'./kw_{kernel_width}_explanation_AE_p.html')
+
+    # explanation as list
+    print(f'Explanation list to a file...')
+    exp_list = exp.as_list()
+    wr = csv.writer(file, quoting=csv.QUOTE_ALL)
+    wr.writerow(exp_list)
+
+    # explanation as pyplot figure
+    print(f'Explanation to pyplot figure')
+    exp_fig = exp.as_pyplot_figure()
+    exp_fig.savefig(f'./kw_{kernel_width}_explanation_AE_p.png')
+
+    return exp
